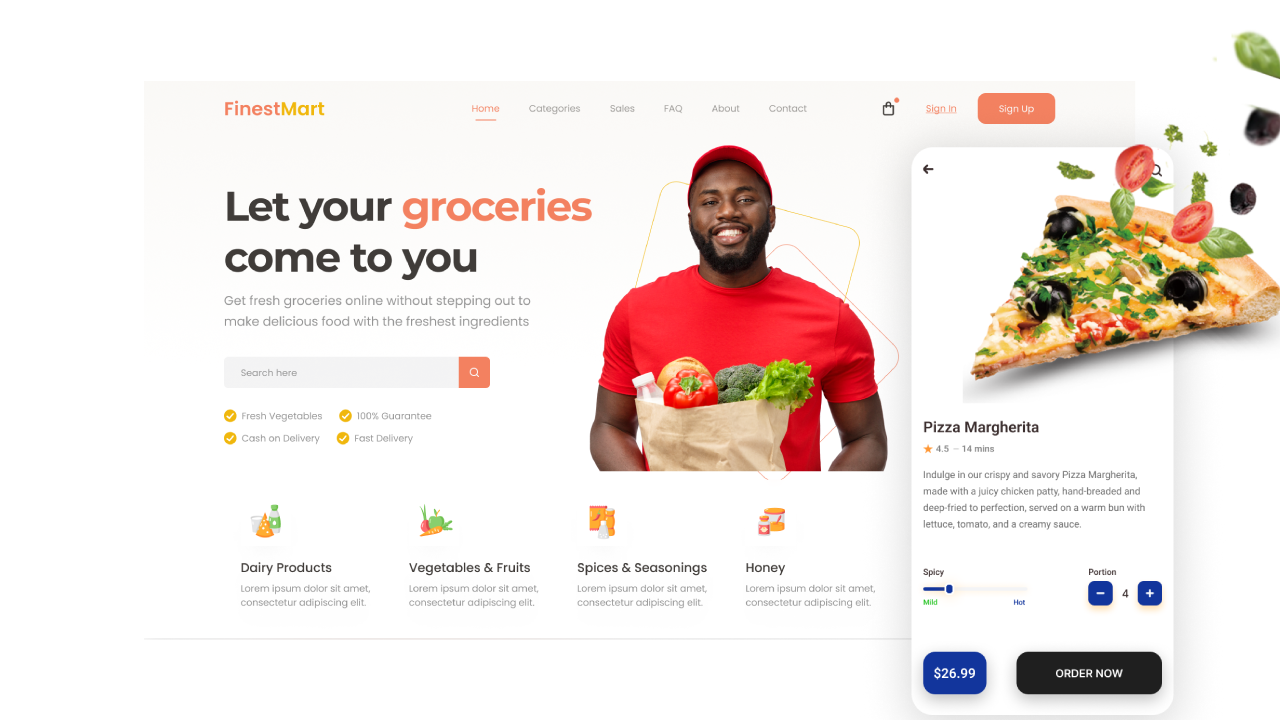
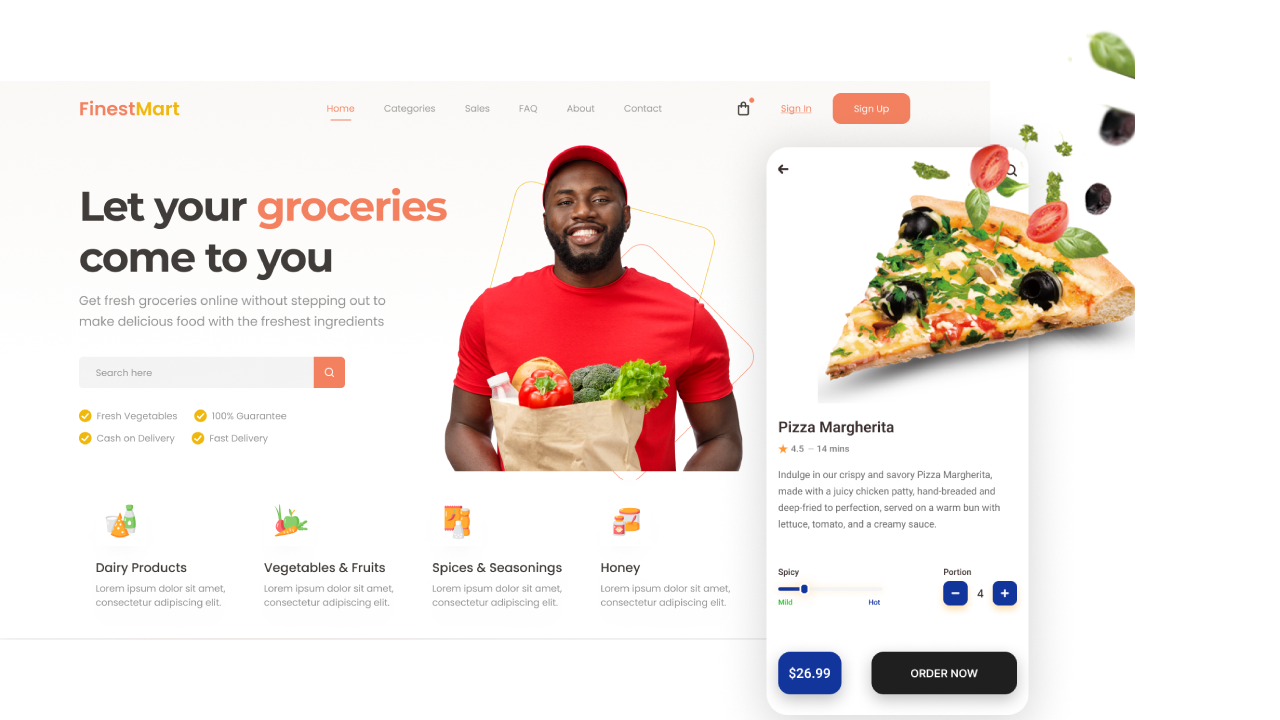
fix image position in hero section

diff --git a/components/FinestMart.jsx b/components/FinestMart.jsx
@@ -65,16 +65,21 @@ const FinestMart = () => {
       <div className="flex flex-col md:flex-row items-center">
         {/* Hero Image Section */}
         <div className="w-full md:w-1/3 mb-16 flex flex-col justify-center items-center">
-          <h2 className="text-2xl md:text-3xl font-bold mb-8 md:text-start text-center">
-            "Why having your own pick up and{" "}
+          <h2 className="text-2xl md:text-xl w-full font-bold  md:text-start text-center">
+            "Why having your own <br /> pick up and{" "}
             <span className="text-blue-600">delivery app</span>?"
           </h2>
           {/* Flex container for images */}
-          <div className="flex items-center justify-center gap-4">
+          <div className="">
             <img
               src="merged.png"
               alt="Delivery Service Interface"
-              className="rounded-lg md:w-3/4 h-auto"
+              className="rounded-lg md:w-full md:block hidden h-auto shadow-none"
+            />
+            <img
+              src="merged_1.png"
+              alt="Delivery Service Interface"
+              className="rounded-lg md:w-full md:hidden h-auto"
             />
           </div>
         </div>

diff --git a/components/Navbar.jsx b/components/Navbar.jsx
@@ -18,7 +18,7 @@ export default function Navbar() {
             <Home className="h-6 w-6 mr-2" />
             <span className="font-bold text-xl">Logo</span>
           </div>
-          <div className="hidden md:flex items-center space-x-6">
+          <div className="hidden md:flex items-center space-x-16">
             <a href="#" className="text-gray-700 hover:text-gray-900">
               Products
             </a>
